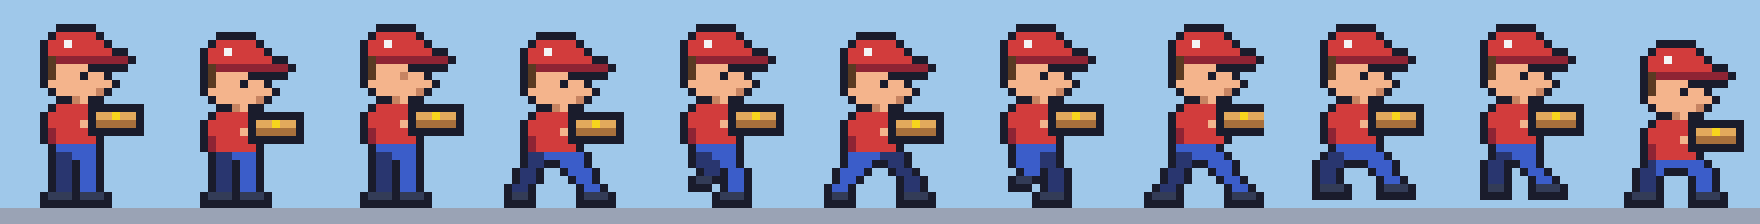
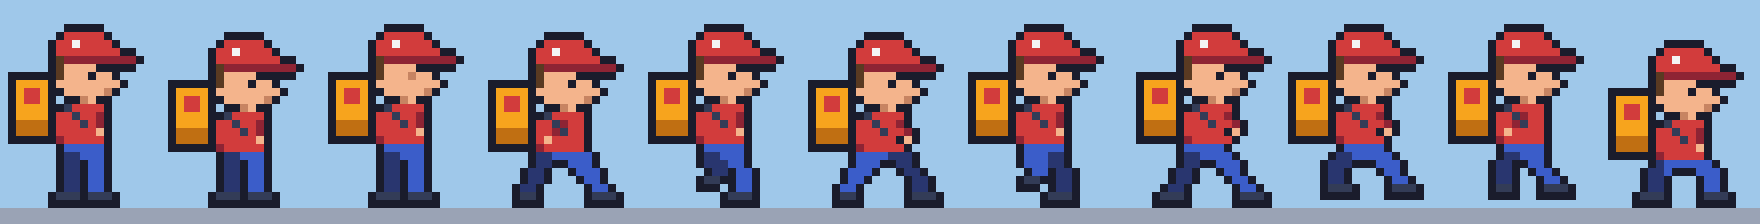
Carry the pizza in a backpack; free arm swings while walking
Claude-Session: https://claude.ai/code/session_015jkYj5TZRwZghbMqW5hfRf

Changed region(s): [[0.0, 0.0938, 1.0, 0.9375]]

diff --git a/js/sprites.js b/js/sprites.js
@@ -11,14 +11,17 @@ const PALETTE = {
   W: '#f4f4f4', // white (cap logo)
   B: '#3b5dc9', // near leg
   b: '#29366f', // far leg, darker so the two legs read apart
-  G: '#333c57', // shoes
-  Y: '#e2a95c', // pizza box
-  y: '#a8703c', // pizza box shade
-  P: '#f7d51d', // box logo
+  G: '#333c57', // shoes and backpack strap
+  Y: '#f7a41d', // pizza backpack
+  y: '#c06f12', // backpack shade
+  P: '#d23c3c', // backpack logo
 };
 
-// Upper body, 16x16, holding the pizza box.
-const TOP = [
+// Frames are 18 px wide: 2 px on the left for the backpack.
+const SPRITE_W = 18;
+
+// Head, rows 0-10.
+const HEAD = [
   '................',
   '.....KKKKK......',
   '....KRRRRRK.....',
@@ -30,18 +33,62 @@ const TOP = [
   '...KSSSSSSSSK...',
   '....KSSSSSsK....',
   '.....KKsSKK.....',
-  '....KRRRRKKKKKKK',
-  '...KRRRRRKYYPYYK',
-  '...KRRRRSKyyyyyK',
-  '...KrRRRRKKKKKKK',
-  '...KrRRRRRK.....',
+];
+const HEAD_BLINK = HEAD.map((row, i) => (i === 7 ? '...KHSSSsSSK....' : row));
+
+// Torso, rows 11-15, with the backpack strap across the chest and the free arm.
+const ARMS = {
+  mid: [
+    '....KGRRRRK.....',
+    '...KRRGRRrK.....',
+    '...KRRRGRrK.....',
+    '...KRRRRRSK.....',
+    '...KrRRRRRK.....',
+  ],
+  forward: [
+    '....KGRRRRK.....',
+    '...KRRGRRrK.....',
+    '...KRRRGRRrK....',
+    '...KRRRRRKSK....',
+    '...KrRRRRRK.....',
+  ],
+  back: [
+    '....KGRRRRK.....',
+    '...KRRGrRRK.....',
+    '...KRRrGRRK.....',
+    '...KRSRRRRK.....',
+    '...KrRRRRRK.....',
+  ],
+};
+
+// Insulated pizza backpack, columns 0-5 of rows 7-15. It sits behind the courier.
+const BAG = [
+  'KKKKKK',
+  'KYYYYK',
+  'KYPPYK',
+  'KYPPYK',
+  'KYYYYK',
+  'KYYYYK',
+  'KyyyyK',
+  'KyyyyK',
+  'KKKKKK',
 ];
 
-// Same, with the eye closed.
-const TOP_BLINK = TOP.map((row, i) => (i === 7 ? '...KHSSSsSSK....' : row));
+function buildTop(head, arms, lean = 0) {
+  const rows = [...head, ...arms].map((row) => '..' + row);
+  BAG.forEach((bagRow, i) => {
+    const r = rows[i + 7];
+    let out = '';
+    for (let x = 0; x < SPRITE_W; x++) {
+      const behind = x < bagRow.length ? bagRow[x] : '.';
+      out += r[x] !== '.' && x >= 5 ? r[x] : behind !== '.' ? behind : r[x];
+    }
+    rows[i + 7] = out;
+  });
+  return lean ? rows.map((row) => '.'.repeat(lean) + row.slice(0, SPRITE_W - lean)) : rows;
+}
 
-// Same, leaning back while braking.
-const TOP_SKID = TOP.map((row) => '.' + row.slice(0, 15));
+const TOP = buildTop(HEAD, ARMS.mid);
 
 // Legs, 16x8, drawn under the upper body.
 const LEGS = {
@@ -151,10 +198,10 @@ function paint(g, rows, oy) {
 // One 16x24 frame: legs at the bottom, upper body lowered by `bob` pixels.
 function frame(top, legs, bob = 0) {
   const c = document.createElement('canvas');
-  c.width = 16;
+  c.width = SPRITE_W;
   c.height = 24;
   const g = c.getContext('2d');
-  paint(g, legs, 16);
+  paint(g, legs.map((row) => '..' + row), 16);
   paint(g, top, bob);
   return c;
 }
@@ -162,16 +209,17 @@ function frame(top, legs, bob = 0) {
 const COURIER = {
   idle: frame(TOP, LEGS.stand),
   breathe: frame(TOP, LEGS.stand, 1),
-  blink: frame(TOP_BLINK, LEGS.stand),
-  // Body dips on the wide steps and rises as the legs pass.
+  blink: frame(buildTop(HEAD_BLINK, ARMS.mid), LEGS.stand),
+  // Body dips on the wide steps and rises as the legs pass; the arm swings
+  // opposite to the near leg.
   walk: [
-    frame(TOP, LEGS.contactA, 1),
+    frame(buildTop(HEAD, ARMS.back), LEGS.contactA, 1),
     frame(TOP, LEGS.passA),
-    frame(TOP, LEGS.contactB, 1),
+    frame(buildTop(HEAD, ARMS.forward), LEGS.contactB, 1),
     frame(TOP, LEGS.passB),
   ],
-  rise: frame(TOP, LEGS.rise),
-  fall: frame(TOP, LEGS.fall),
+  rise: frame(buildTop(HEAD, ARMS.forward), LEGS.rise),
+  fall: frame(buildTop(HEAD, ARMS.back), LEGS.fall),
   land: frame(TOP, LEGS.crouch, 2),
-  skid: frame(TOP_SKID, LEGS.skid),
+  skid: frame(buildTop(HEAD, ARMS.forward, 1), LEGS.skid),
 };

diff --git a/js/game.js b/js/game.js
@@ -308,7 +308,7 @@ function start() {
 const player = {
   x: 40, y: GROUND_Y - 24,
   vx: 0, vy: 0,
-  w: 10, h: 22, ox: 3, oy: 2, // hitbox inside the 16x24 sprite
+  w: 10, h: 22, ox: 4, oy: 2, // hitbox inside the 18x24 sprite, centred on the body
   facing: 1,
   grounded: true,
   sinceGround: 0,
@@ -345,7 +345,7 @@ function update(dt) {
   }
   p.skidTime = p.grounded ? Math.max(0, p.skidTime - dt) : 0;
   p.skidding = p.skidTime > 0;
-  if (p.skidding && Math.random() < 0.6) puff(p.x + 8 + p.facing * 5, p.y + 24, 1);
+  if (p.skidding && Math.random() < 0.6) puff(p.x + 9 + p.facing * 5, p.y + 24, 1);
 
   // Horizontal speed
   if (dir) {
@@ -365,7 +365,7 @@ function update(dt) {
     p.grounded = false;
     p.sinceGround = PHYS.coyote + 1;
     jumpPressedAt = -1;
-    puff(p.x + 8, p.y + 24, 4);
+    puff(p.x + 9, p.y + 24, 4);
     beep(300, 700, 0.15);
   }
   if (!keys.jump && p.vy < -PHYS.jumpSpeed * PHYS.jumpCut) p.vy = -PHYS.jumpSpeed * PHYS.jumpCut;
@@ -407,7 +407,7 @@ function update(dt) {
   p.y = ny;
 
   if (p.grounded && !wasGrounded && fallSpeed > 120) {
-    puff(p.x + 8, p.y + 24, 6);
+    puff(p.x + 9, p.y + 24, 6);
     beep(160, 80, 0.08, 'triangle', 0.08);
     p.landTime = fallSpeed > 250 ? 0.14 : 0.09;
   }
@@ -416,10 +416,10 @@ function update(dt) {
   // Walk cycle advances with distance, so faster steps at full speed
   p.animTime = p.grounded && Math.abs(p.vx) > 5 ? p.animTime + Math.abs(p.vx) * dt : 0;
 
-  // Steam from the hot pizza
+  // Steam from the hot pizza in the backpack
   if (Math.random() < dt * 3) {
-    const boxX = p.facing > 0 ? p.x + 12 : p.x + 2;
-    steam.push({ x: boxX + Math.random() * 3 - 1, y: p.y + 10, life: 0.8 + Math.random() * 0.4 });
+    const bagX = p.facing > 0 ? p.x + 2 : p.x + 13;
+    steam.push({ x: bagX + Math.random() * 3, y: p.y + 6, life: 0.8 + Math.random() * 0.4 });
   }
   for (let i = steam.length - 1; i >= 0; i--) {
     const s = steam[i];
@@ -458,7 +458,7 @@ function tiled(img, speed, y = 0) {
 }
 
 function render() {
-  const target = player.x + 8 - VIEW_W / 2 + player.facing * 24;
+  const target = player.x + 9 - VIEW_W / 2 + player.facing * 24;
   camX += (target - camX) * 0.1;
   camX = Math.max(0, Math.min(WORLD_W - VIEW_W, camX));
   const cx = Math.round(camX);
@@ -479,7 +479,7 @@ function render() {
 
   // Shadow on the ground under the courier
   ctx.fillStyle = 'rgba(26,28,44,0.35)';
-  ctx.fillRect(Math.round(player.x - cx) + 3, GROUND_Y, 10, 2);
+  ctx.fillRect(Math.round(player.x - cx) + 4, GROUND_Y, 10, 2);
 
   const img = courierFrame();
   const px = Math.round(player.x) - cx;
@@ -487,7 +487,7 @@ function render() {
   if (player.facing < 0) {
     ctx.save();
     ctx.scale(-1, 1);
-    ctx.drawImage(img, -px - 16, py);
+    ctx.drawImage(img, -px - img.width, py);
     ctx.restore();
   } else {
     ctx.drawImage(img, px, py);

diff --git a/README.md b/README.md
@@ -21,7 +21,7 @@
 ## Этапы
 
 - [x] **Этап 1.** Курьер с пиццей ходит и прыгает по улице: ящики, навесы, параллакс-город, звуки.
-  - Анимация курьера: цикл шага из 4 кадров с качанием корпуса, дыхание и моргание в покое, взлёт, падение, приземление с приседом, торможение с разворотом, пар от пиццы.
+  - Анимация курьера: цикл шага из 4 кадров с качанием корпуса, дыхание и моргание в покое, взлёт, падение, приземление с приседом, торможение с разворотом. Пицца едет в термосумке-рюкзаке, из неё идёт пар, свободная рука качается в такт шагу.
 
   ![Кадры курьера](docs/courier-frames.png)
 - [ ] Этап 2. …
@@ -32,5 +32,5 @@
 |---|---|
 | `index.html` | Разметка, экран заставки, кнопки для телефона |
 | `style.css` | Стили, пиксельный шрифт, масштабирование |
-| `js/sprites.js` | Спрайты курьера, нарисованные текстом |
+| `js/sprites.js` | Спрайты курьера с рюкзаком, нарисованные текстом |
 | `js/game.js` | Уровень, физика, управление, звук, отрисовка |
